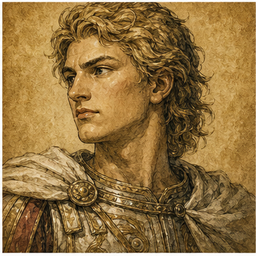
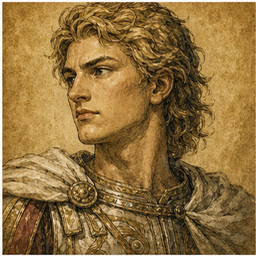
feat: 전투 결과 장수 성장 카드 세로 레이아웃 및 초상화 업데이트
- 결과 화면 장수 성장 그리드: 세로형 카드 5열 고정 레이아웃
- 초상화 세로 확대(68px → 104px), object-position: top 적용
- 장수 편성 화면: 타이틀 "출전장수", 안내 문구 추가, 전적/랭킹 버튼 숨김
- 로드아웃 총합 표시 숨김, 편성 저장 버튼 중앙 정렬
- 전투 결과 팝업 너비 820px → 980px
- 초상화 이미지 갱신: alexander, attila, caesar, gyebaek, hannibal, kim_yusin, saladin, yeon_gaesomun
- formation_flag_red_sheet.png 제거

diff --git a/web/styles.css b/web/styles.css
@@ -1957,7 +1957,7 @@ input[type="range"].adjust-slider {
   border-radius: 4px;
   box-shadow: 0 8px 40px rgba(0,0,0,0.9), 0 0 0 1px var(--border-dark);
   padding: 32px 36px;
-  width: min(820px, 96vw);
+  width: min(980px, 96vw);
   max-height: 92vh;
   overflow-y: auto;
   display: flex;
@@ -2058,19 +2058,20 @@ input[type="range"].adjust-slider {
 
 .result-growth-grid {
   display: grid;
-  grid-template-columns: repeat(auto-fit, minmax(230px, 1fr));
+  grid-template-columns: repeat(5, minmax(0, 1fr));
   gap: 8px;
 }
 
 .result-growth-card {
-  display: grid;
-  grid-template-columns: 72px 1fr;
-  gap: 12px;
-  align-items: center;
-  padding: 12px;
+  display: flex;
+  flex-direction: column;
+  gap: 8px;
+  align-items: stretch;
+  padding: 10px 8px;
   border: 1px solid rgba(184,138,8,0.22);
   background: rgba(0,0,0,0.28);
   border-radius: 3px;
+  min-width: 0;
 }
 
 .result-growth-card.is-level-up {
@@ -2080,12 +2081,13 @@ input[type="range"].adjust-slider {
 }
 
 .result-growth-portrait {
-  width: 68px;
-  height: 68px;
+  width: min(92px, 100%);
+  height: 104px;
   display: grid;
   place-items: center;
   overflow: hidden;
   position: relative;
+  margin: 0 auto;
   border: 1px solid rgba(226,187,104,0.42);
   background: rgba(35,26,11,0.78);
   color: var(--gold-bright);
@@ -2097,6 +2099,7 @@ input[type="range"].adjust-slider {
   width: 100%;
   height: 100%;
   object-fit: cover;
+  object-position: top;
 }
 
 /* ─ 카드 메인 영역 ─ */
@@ -2119,43 +2122,47 @@ input[type="range"].adjust-slider {
   flex-direction: column;
   gap: 5px;
   min-width: 0;
+  text-align: center;
 }
 
 .result-growth-header {
   display: flex;
-  justify-content: space-between;
-  align-items: baseline;
-  gap: 6px;
+  flex-direction: column;
+  justify-content: center;
+  align-items: center;
+  gap: 2px;
   min-width: 0;
 }
 
 .result-growth-name {
   color: var(--gold-bright);
   font-weight: 900;
-  font-size: 16px;
+  font-size: 13px;
   white-space: nowrap;
   overflow: hidden;
   text-overflow: ellipsis;
-  flex: 1;
+  width: 100%;
+  flex: none;
   min-width: 0;
 }
 
 .result-growth-lv-badge {
   display: flex;
   align-items: center;
+  justify-content: center;
   gap: 5px;
   flex-shrink: 0;
 }
 
 .result-growth-lv {
-  font-size: 13px;
+  font-size: 11px;
   font-weight: 700;
   color: #c8a850;
 }
 
 .result-growth-levelup-row {
   display: flex;
-  justify-content: flex-start;
+  justify-content: center;
   min-height: 16px;
 }
 
@@ -2670,8 +2677,20 @@ input[type="range"].adjust-slider {
   margin-top: 6px;
 }
 
+.online-loadout-action-hint {
+  margin: 16px 18px 10px;
+  color: var(--text-dim);
+  font-size: 12px;
+  font-weight: 700;
+  text-align: center;
+}
+
+.online-loadout-actions {
+  justify-content: center;
+}
+
 .online-profile-summary {
-  padding: 0;
+  padding: 10px 12px;
   border: none;
   background: none;
 }
@@ -2704,6 +2723,7 @@ input[type="range"].adjust-slider {
 }
 
 .online-loadout-total {
+  display: none;
   grid-column: 1 / -1;
   padding: 9px 10px;
   border: 1px solid rgba(184,138,8,0.30);
@@ -3230,6 +3250,32 @@ input[type="range"].adjust-slider {
   padding: 12px;
   border: 1px solid rgba(184,138,8,0.30);
   background: rgba(0,0,0,0.24);
+}
+
+.online-panel[data-online-page="auth"] .online-card,
+.online-panel[data-online-page="match"] .online-card,
+.online-panel[data-online-page="match"] .online-page-card.online-match-card {
+  border-color: transparent;
+  background: transparent;
+  box-shadow: none;
+}
+
+.online-panel[data-online-page="commanders"] .online-commanders-card {
+  border-color: transparent;
+  background: transparent;
+  box-shadow: none;
+}
+
+.online-panel[data-online-page="commanders"] .online-commanders-card .adjust-card {
+  border-color: #b88a0847;
+}
+
+.online-panel[data-online-page="auth"] #onlineAuthStatus,
+.online-panel[data-online-page="match"] .online-status {
+  padding: 0;
+  border: 0;
+  background: transparent;
+  text-align: center;
 }
 
 .online-result-summary {

diff --git a/web/app.js b/web/app.js
@@ -7485,6 +7485,9 @@ import { initRng, random as seededRandom, resetRng } from './src/prng.js';
     recentCard?.classList.add("online-page-card", "online-records-card", "online-card--wide");
     leaderboardCard?.classList.add("online-page-card", "online-records-card");
 
+    const commanderTitle = commanderCard?.querySelector("h3");
+    if (commanderTitle) commanderTitle.textContent = "출전장수";
+
     if (authCard && !onlineAuthStatus) {
       onlineAuthStatus = document.createElement("div");
       onlineAuthStatus.id = "onlineAuthStatus";
@@ -7505,14 +7508,25 @@ import { initRng, random as seededRandom, resetRng } from './src/prng.js';
         actions.className = "online-actions online-loadout-actions";
         commanderCard.appendChild(actions);
       }
+      let loadoutHint = commanderCard.querySelector(".online-loadout-action-hint");
+      if (!loadoutHint) {
+        loadoutHint = document.createElement("div");
+        loadoutHint.className = "online-loadout-action-hint";
+        loadoutHint.textContent = "전투에 출전할 장수 5명을 설정해주세요.";
+        commanderCard.insertBefore(loadoutHint, actions);
+      }
       onlineRecordsBtn = makeOnlineButton("onlineRecordsBtn", "전적/랭킹");
       onlineSaveLoadoutBtn = makeOnlineButton("onlineSaveLoadoutBtn", "편성 저장");
       onlineGoMatchBtn = makeOnlineButton("onlineGoMatchBtn", "매칭 화면으로", "btn-primary");
       onlineLogoutBtn = onlineLogoutBtn || makeOnlineButton("onlineLogoutBtn", "로그아웃");
       onlineLogoutBtn.hidden = false;
-      [onlineRecordsBtn, onlineSaveLoadoutBtn, onlineGoMatchBtn].forEach((button) => {
+      [onlineSaveLoadoutBtn, onlineGoMatchBtn].forEach((button) => {
         if (!actions.contains(button)) actions.appendChild(button);
       });
+      if (onlineRecordsBtn) {
+        onlineRecordsBtn.hidden = true;
+        if (actions.contains(onlineRecordsBtn)) actions.removeChild(onlineRecordsBtn);
+      }
       if (onlineSaveLoadoutBtn) {
         onlineSaveLoadoutBtn.hidden = true;
         if (actions.contains(onlineSaveLoadoutBtn)) actions.removeChild(onlineSaveLoadoutBtn);
